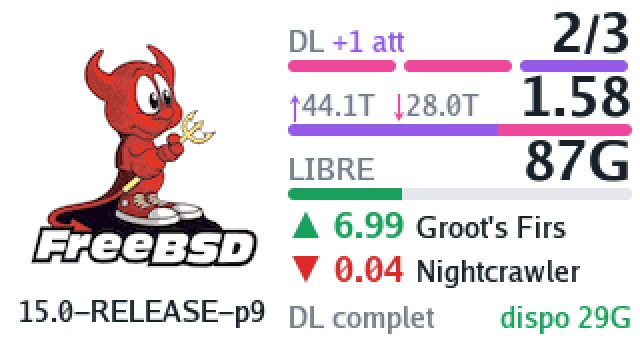
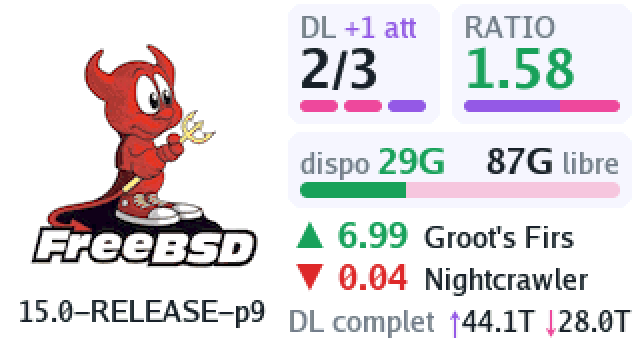
sysmonF401 : page torrents en cartes
Cartes arrondies gris clair : DL (2/3, pastille par place), RATIO (vert
à partir de 1, barre envoyé / reçu), disque (dispo à gauche, libre à
droite, barre verte pour le dispo et rose pâle pour la place déjà
promise). Puis top / flop, erreurs et action du dernier passage avec les
totaux envoyé / reçu. L'erreur de c411 devient une carte rouge pâle.

Changed region(s): [[0.4375, 0.0294, 1.0, 0.5882], [0.4375, 0.6176, 0.9375, 0.8824], [0.4375, 0.8824, 1.0, 1.0]]

diff --git a/firmware/sysmonf401/Core/Src/sysmon.c b/firmware/sysmonf401/Core/Src/sysmon.c
@@ -337,116 +337,167 @@ static void fmt_age(char *out, size_t n, long s) {
   else snprintf(out, n, "%ld j", s / 86400);
 }
 
-/* Places de téléchargement : un segment par place, rose rempli selon l'avancement
- * pour un téléchargement, violet pour un ajout en attente, vide sinon. */
-static void draw_slots(int row) {
+/* La page torrents est faite de cartes : rectangles arrondis gris très clair. */
+#define C_PANEL RGB565(243, 244, 248)
+#define C_RESERVED RGB565(246, 196, 222) /* rose pâle : place déjà promise */
+#define PAD 6
+#define TOP_Y 2      /* cartes DL et ratio */
+#define TOP_H 60
+#define DL_W 76
+#define DISK_Y 66    /* carte disque */
+#define DISK_H 38
+#define RANK_Y 107   /* top, flop, puis l'action */
+#define TITLE_DY 3   /* titre d'une carte, puis grand nombre, puis barre */
+#define BIG_DY 20
+
+static void panel(int x, int y, int w, int h, uint16_t color) {
+  gfx_round_rect(x, y, w, h, 8, color, C_BG);
+}
+
+/* Texte de la police f dont la ligne de base est en `base`. */
+static int text_at_base(int x, int base, const Font *f, const char *s, uint16_t fg, uint16_t bg) {
+  return gfx_text(x, base - f->ascent, f, s, fg, bg);
+}
+
+/* Remplace les _ par des espaces. */
+static void spaces(char *s) {
+  for (; *s; s++)
+    if (*s == '_') *s = ' ';
+}
+
+/* Carte DL : titre et ajouts en attente, « 2/3 » en grand, une pastille par place
+ * (rose remplie selon l'avancement, violette pour un ajout en attente). */
+static void draw_dl_card(int x, int y, int w, int h) {
+  char buf[16];
+  panel(x, y, w, h, C_PANEL);
+  int base = y + TITLE_DY + font_small.ascent;
+  int tx = text_at_base(x + PAD, base, &font_small, "DL", C_DIM, C_PANEL);
+  if (tor.att) {
+    snprintf(buf, sizeof buf, " +%d att", tor.att);
+    text_at_base(tx, base, &font_small, buf, C_UP, C_PANEL);
+  }
+  if (tor.max > 0) snprintf(buf, sizeof buf, "%d/%d", tor.dl, tor.max);
+  else snprintf(buf, sizeof buf, "%d", tor.dl);
+  gfx_text(x + PAD, y + BIG_DY, &font_large, buf, C_TEXT, C_PANEL);
+
   int n = tor.max > 0 ? tor.max : tor.dl + tor.att;
   if (n < 1) n = 1;
   if (n > 8) n = 8;
-  int gap = 4, sw = (RW - gap * (n - 1)) / n;
+  int gap = 3, inner = w - 2 * PAD, sw = (inner - gap * (n - 1)) / n;
   for (int i = 0; i < n; i++) {
-    int x = RX + i * (sw + gap), fill = 0;
+    int fill = 0;
     uint16_t color = C_DOWN;
     if (i < tor.dl) fill = i < tor.npct ? sw * tor.pct[i] / 100 : sw;
     else if (i < tor.dl + tor.att) fill = sw, color = C_UP;
-    gfx_bar(x, BAR_Y(row), sw, BAR_H, fill, color, C_TRACK, C_BG);
+    gfx_bar(x + PAD + i * (sw + gap), y + h - PAD - BAR_H, sw, BAR_H, fill, color, C_TRACK, C_PANEL);
   }
-  int used = RX + n * sw + (n - 1) * gap; /* arrondi de la division : reste effacé */
-  st7789_fill_rect(used, BAR_Y(row), RX + RW - used, BAR_H, C_BG);
 }
 
-/* Ligne du bas : triangle et ratio en couleur, puis le nom en petit. */
+/* Carte ratio : en grand (vert à partir de 1, orange en dessous) ; la barre montre
+ * l'envoyé (violet) face au reçu (rose) depuis toujours. */
+static void draw_ratio_card(int x, int y, int w, int h) {
+  panel(x, y, w, h, C_PANEL);
+  text_at_base(x + PAD, y + TITLE_DY + font_small.ascent, &font_small, "RATIO", C_DIM, C_PANEL);
+  const char *r = tor.ratio[0] ? tor.ratio : "-";
+  uint16_t fg = C_DIM;
+  if (!strcmp(r, "inf")) fg = C_OK;
+  else if (r[0] != '-' && r[0] != '?') fg = strtof(r, NULL) >= 1 ? C_OK : C_TEMP;
+  gfx_text(x + PAD, y + BIG_DY, &font_large, r, fg, C_PANEL);
+  float up = size_gb(tor.up), down = size_gb(tor.down), sum = up + down;
+  int bw = w - 2 * PAD, fill = sum > 0 ? (int)(bw * up / sum + 0.5f) : 0;
+  gfx_bar(x + PAD, y + h - PAD - BAR_H, bw, BAR_H, fill, C_UP, sum > 0 ? C_DOWN : C_TRACK, C_PANEL);
+}
+
+/* Carte disque : « dispo 29G » à gauche, « 87G libre » à droite ; la barre entière
+ * est le libre, la part verte ce qui reste pour des ajouts, le rose pâle ce qui est
+ * déjà promis (téléchargements en cours, marge minimale). En cas de manque : rouge. */
+static void draw_disk_card(int x, int y, int w, int h) {
+  panel(x, y, w, h, C_PANEL);
+  int base = y + 4 + font_medium.ascent;
+  const char *v = tor.need[0] ? tor.need : tor.avail[0] ? tor.avail : "?";
+  const char *fr_txt = tor.free[0] ? tor.free : "?";
+  int tx = text_at_base(x + PAD, base, &font_small, tor.need[0] ? "manque " : "dispo ", C_DIM, C_PANEL);
+  tx = text_at_base(tx, base, &font_medium, v, tor.need[0] ? C_RED : C_OK, C_PANEL);
+  int lw = gfx_text_width(&font_small, " libre"), vw = gfx_text_width(&font_medium, fr_txt);
+  if (x + w - PAD - lw - vw < tx + 8) lw = 0; /* pas la place : le mot « libre » saute */
+  int rx = text_at_base(x + w - PAD - lw - vw, base, &font_medium, fr_txt, C_TEXT, C_PANEL);
+  if (lw) text_at_base(rx, base, &font_small, " libre", C_DIM, C_PANEL);
+
+  int bw = w - 2 * PAD, by = y + h - 5 - 8;
+  float fr = size_gb(tor.free), av = size_gb(tor.avail);
+  if (tor.need[0]) gfx_bar(x + PAD, by, bw, 8, bw, C_RED, C_TRACK, C_PANEL);
+  else if (fr > 0 && !isnan(av)) gfx_bar(x + PAD, by, bw, 8, (int)(bw * av / fr + 0.5f), C_OK, C_RESERVED, C_PANEL);
+  else gfx_bar(x + PAD, by, bw, 8, 0, C_OK, C_TRACK, C_PANEL);
+}
+
+/* Ligne top / flop : triangle et ratio en couleur, puis le nom. */
 static void draw_rank(int y, const char *tri, const char *ratio, const char *name, uint16_t color) {
   char n[24];
-  st7789_fill_rect(RX, y, RW, font_medium.height, C_BG);
   if (!ratio[0]) return;
-  int x = gfx_text(RX, y, &font_medium, tri, color, C_BG);
-  x = gfx_text(x, y, &font_medium, " ", color, C_BG);
-  x = gfx_text(x, y, &font_medium, ratio, color, C_BG);
-  strcpy(n, name);
-  for (char *p = n; *p; p++)
-    if (*p == '_') *p = ' ';
-  fit(n, &font_small, RX + RW - x - 6);
-  text_small_on(x + 6, y, &font_medium, n, C_TEXT);
+  int base = y + font_medium.ascent;
+  int x = text_at_base(RX + 2, base, &font_medium, tri, color, C_BG);
+  x = text_at_base(x, base, &font_medium, " ", color, C_BG);
+  x = text_at_base(x, base, &font_medium, ratio, color, C_BG);
+  copy(n, sizeof n, name);
+  spaces(n);
+  fit(n, &font_small, RX + RW - x - 8);
+  text_at_base(x + 8, base, &font_small, n, C_TEXT, C_BG);
 }
 
 static void draw_torrent_page(void) {
-  char buf[24], age[12];
+  char buf[48], age[12];
   long since = tor.age + (long)((HAL_GetTick() - tor_rx) / 1000);
   fmt_age(age, sizeof age, since);
 
-  if (tor.error[0]) { /* c411 n'a pas pu joindre Transmission */
-    char msg[48];
-    strcpy(msg, tor.error);
-    for (char *p = msg; *p; p++)
-      if (*p == '_') *p = ' ';
-    fit(msg, &font_small, RW);
-    gfx_text(RX, ROW_Y(0), &font_medium, "Torrents : ERREUR", C_RED, C_BG);
-    gfx_text(RX, ROW_Y(0) + font_medium.height + 4, &font_small, msg, C_TEXT, C_BG);
-    snprintf(buf, sizeof buf, "libre %s", tor.free);
-    gfx_text(RX, ROW_Y(2), &font_medium, buf, C_TEXT, C_BG);
-    gfx_text(RX, LOW_Y + 40, &font_small, age, C_DIM, C_BG);
+  if (tor.error[0]) { /* c411 n'a pas pu joindre Transmission : une carte rouge pâle */
+    uint16_t bg = RGB565(253, 236, 236);
+    panel(RX, TOP_Y, RW, H - 2 * TOP_Y, bg);
+    text_at_base(RX + PAD, TOP_Y + 6 + font_small.ascent, &font_small, "TORRENTS", C_DIM, bg);
+    gfx_text(RX + PAD, TOP_Y + 26, &font_medium, "Erreur", C_RED, bg);
+    copy(buf, sizeof buf, tor.error);
+    spaces(buf);
+    fit(buf, &font_small, RW - 2 * PAD);
+    gfx_text(RX + PAD, TOP_Y + 50, &font_small, buf, C_TEXT, bg);
+    int fx = gfx_text(RX + PAD, TOP_Y + 84, &font_large, tor.free[0] ? tor.free : "?", C_TEXT, bg);
+    text_at_base(fx, TOP_Y + 84 + font_large.ascent, &font_small, " libre", C_DIM, bg);
+    snprintf(buf, sizeof buf, "il y a %s", age);
+    gfx_text(RX + PAD, H - TOP_Y - 8 - font_small.height, &font_small, buf, C_DIM, bg);
     return;
   }
 
-  /* Téléchargements : « 2/3 », ajouts en attente à côté du libellé. */
-  char att[16] = "";
-  if (tor.att) snprintf(att, sizeof att, "+%d att", tor.att);
-  if (tor.max > 0) snprintf(buf, sizeof buf, "%d/%d", tor.dl, tor.max);
-  else snprintf(buf, sizeof buf, "%d", tor.dl);
-  int vx = draw_row_value(0, buf, C_TEXT, 0);
-  draw_row_label(0, "DL", att, C_UP, vx);
-  if (tor.err) { /* torrents en erreur : en rouge, après les ajouts en attente */
-    char err[12];
-    snprintf(err, sizeof err, "%d err", tor.err);
-    int ex = RX + gfx_text_width(&font_small, "DL ");
-    if (att[0]) ex += gfx_text_width(&font_small, att) + gfx_text_width(&font_small, " ");
-    if (ex + gfx_text_width(&font_small, err) < vx - 6)
-      text_small_on(ex, ROW_Y(0), &font_large, err, C_RED);
-  }
-  draw_slots(0);
-
-  /* Ratio global, avec à sa gauche les totaux envoyé / reçu depuis toujours ; la barre
-   * montre la part envoyée (violet) face à la part reçue (rose). */
-  draw_row_value(1, tor.ratio[0] ? tor.ratio : "-", C_TEXT, 0);
-  int x = text_small_on(RX, ROW_Y(1), &font_large, CH_UP, C_UP);
-  x = text_small_on(x, ROW_Y(1), &font_large, tor.up, C_DIM);
-  x = text_small_on(x, ROW_Y(1), &font_large, "  ", C_DIM);
-  x = text_small_on(x, ROW_Y(1), &font_large, CH_DOWN, C_DOWN);
-  text_small_on(x, ROW_Y(1), &font_large, tor.down, C_DIM);
-  float up = size_gb(tor.up), down = size_gb(tor.down);
-  draw_row_bar(1, up + down > 0 ? up / (up + down) : NAN, C_UP, up + down > 0 ? C_DOWN : C_TRACK);
-
-  /* Espace : libre sur le disque ; la barre, la part encore disponible pour des ajouts
-   * (toute rouge s'il en manque), chiffrée sur la dernière ligne. */
-  draw_row_value(2, tor.free[0] ? tor.free : "?", C_TEXT, 0);
-  draw_row_label(2, "LIBRE", NULL, 0, 0);
-  float fr = size_gb(tor.free), av = size_gb(tor.avail);
-  if (tor.need[0]) draw_row_bar(2, 1, C_RED, C_TRACK);
-  else draw_row_bar(2, fr > 0 ? av / fr : NAN, C_OK, C_TRACK);
+  draw_dl_card(RX, TOP_Y, DL_W, TOP_H);
+  draw_ratio_card(RX + DL_W + 6, TOP_Y, RW - DL_W - 6, TOP_H);
+  draw_disk_card(RX, DISK_Y, RW, DISK_H);
 
   /* Torrents terminés le plus et le moins rentables. */
-  draw_rank(LOW_Y, CH_TRI_UP, tor.topr, tor.topn, C_OK);
-  draw_rank(LOW_Y + font_medium.height + 1, CH_TRI_DOWN, tor.flopr, tor.flopn, C_RED);
+  draw_rank(RANK_Y, CH_TRI_UP, tor.topr, tor.topn, C_OK);
+  draw_rank(RANK_Y + font_medium.height, CH_TRI_DOWN, tor.flopr, tor.flopn, C_RED);
 
-  /* Dernière ligne : ce que le dernier passage a fait (ou son âge s'il est ancien),
-   * place disponible ou manquante à droite. */
-  int y = H - 3 - font_small.height;
-  char act[64];
-  snprintf(act, sizeof act, "%s", tor.act);
-  for (char *p = act; *p; p++)
-    if (*p == '_') *p = ' ';
-  if (since > 3600) snprintf(act, sizeof act, "il y a %s", age); /* résumé ancien : c411 ne tourne plus ? */
-  int right = RX + RW;
-  if (tor.need[0] || tor.avail[0]) {
-    if (tor.need[0]) snprintf(buf, sizeof buf, "manque %s", tor.need);
-    else snprintf(buf, sizeof buf, "dispo %s", tor.avail);
-    right -= gfx_text_width(&font_small, buf);
-    gfx_text(right, y, &font_small, buf, tor.need[0] ? C_RED : C_OK, C_BG);
-    right -= 8;
+  /* Dernière ligne : torrents en erreur et ce que le dernier passage a fait (ou son
+   * âge s'il est ancien : c411 ne tourne plus ?) ; à droite, les totaux envoyé / reçu
+   * depuis toujours. */
+  int y = H - 1 - font_small.height;
+  int tw = gfx_text_width(&font_small, CH_UP) + gfx_text_width(&font_small, tor.up) +
+           gfx_text_width(&font_small, " ") + gfx_text_width(&font_small, CH_DOWN) +
+           gfx_text_width(&font_small, tor.down);
+  int x = RX + RW - tw;
+  x = gfx_text(x, y, &font_small, CH_UP, C_UP, C_BG);
+  x = gfx_text(x, y, &font_small, tor.up, C_TEXT, C_BG);
+  x = gfx_text(x, y, &font_small, " ", C_TEXT, C_BG);
+  x = gfx_text(x, y, &font_small, CH_DOWN, C_DOWN, C_BG);
+  gfx_text(x, y, &font_small, tor.down, C_TEXT, C_BG);
+
+  int lx = RX, right = RX + RW - tw - 5;
+  if (tor.err) {
+    snprintf(buf, sizeof buf, "%d err ", tor.err);
+    lx = gfx_text(lx, y, &font_small, buf, C_RED, C_BG);
   }
-  fit(act, &font_small, right - RX);
-  gfx_text(RX, y, &font_small, act, since > 3600 ? C_TEMP : C_DIM, C_BG);
+  char act[64];
+  copy(act, sizeof act, tor.act);
+  spaces(act);
+  if (since > 3600) snprintf(act, sizeof act, "il y a %s", age);
+  fit(act, &font_small, right - lx);
+  gfx_text(lx, y, &font_small, act, since > 3600 ? C_TEMP : C_DIM, C_BG);
 }
 
 /* --- Pages --- */

diff --git a/README.md b/README.md
@@ -23,17 +23,19 @@ download / upload rates, sent once a second by the server over USB serial.
   download above the axis, upload below, each with its own scale.
 - When the server sends the summary of [c411_transmission](https://github.com/k-vanier/c411_transmission)
   (`/var/log/torrents_status`), the right column switches every 10 s between that system
-  page and a torrents page:
-  - **DL**: downloads / slots (`2/3`), one bar segment per slot: pink filled to each
-    download's progress, violet for an added `.torrent` still waiting (`+1 att`), and
-    torrents in error in red (`2 err`);
-  - **ratio**: global ratio, with the totals sent ↑ and received ↓ since ever; the bar shows
-    sent (violet) against received (pink);
-  - **LIBRE**: free space; the bar is the part still available for new additions (all red
-    when space is missing);
-  - the best and worst finished torrents (▲ green, ▼ red, ratio and name), then what the
-    last run did (`DL complet`, `RAS`...) and `dispo` / `manque` on the right. A summary
-    older than an hour shows its age in orange; c411's error line shows as such.
+  page and a torrents page made of cards:
+  - **DL**: downloads / slots (`2/3`) and added `.torrent` files still waiting (`+1 att`);
+    one pill per slot, pink filled to each download's progress, violet for a waiting one;
+  - **RATIO**: global ratio, green from 1, orange below; the bar shows sent (violet)
+    against received (pink) since ever;
+  - **disk**: `dispo 29G` on the left, `87G libre` on the right; the whole bar is the free
+    space, the green part what is left for new additions, the pale pink part what is
+    already promised (downloads in progress, c411's minimum free space); all red with
+    `manque` when space is missing;
+  - the best and worst finished torrents (▲ green, ▼ red, ratio and name), then torrents
+    in error (red), what the last run did (`DL complet`, `RAS`...) and the totals sent ↑ /
+    received ↓ since ever. A summary older than an hour shows its age in orange; c411's
+    error line shows as a pale red card.
   The torrents page is left out when no summary arrived for 30 s (file missing).
 
 ## Wiring
